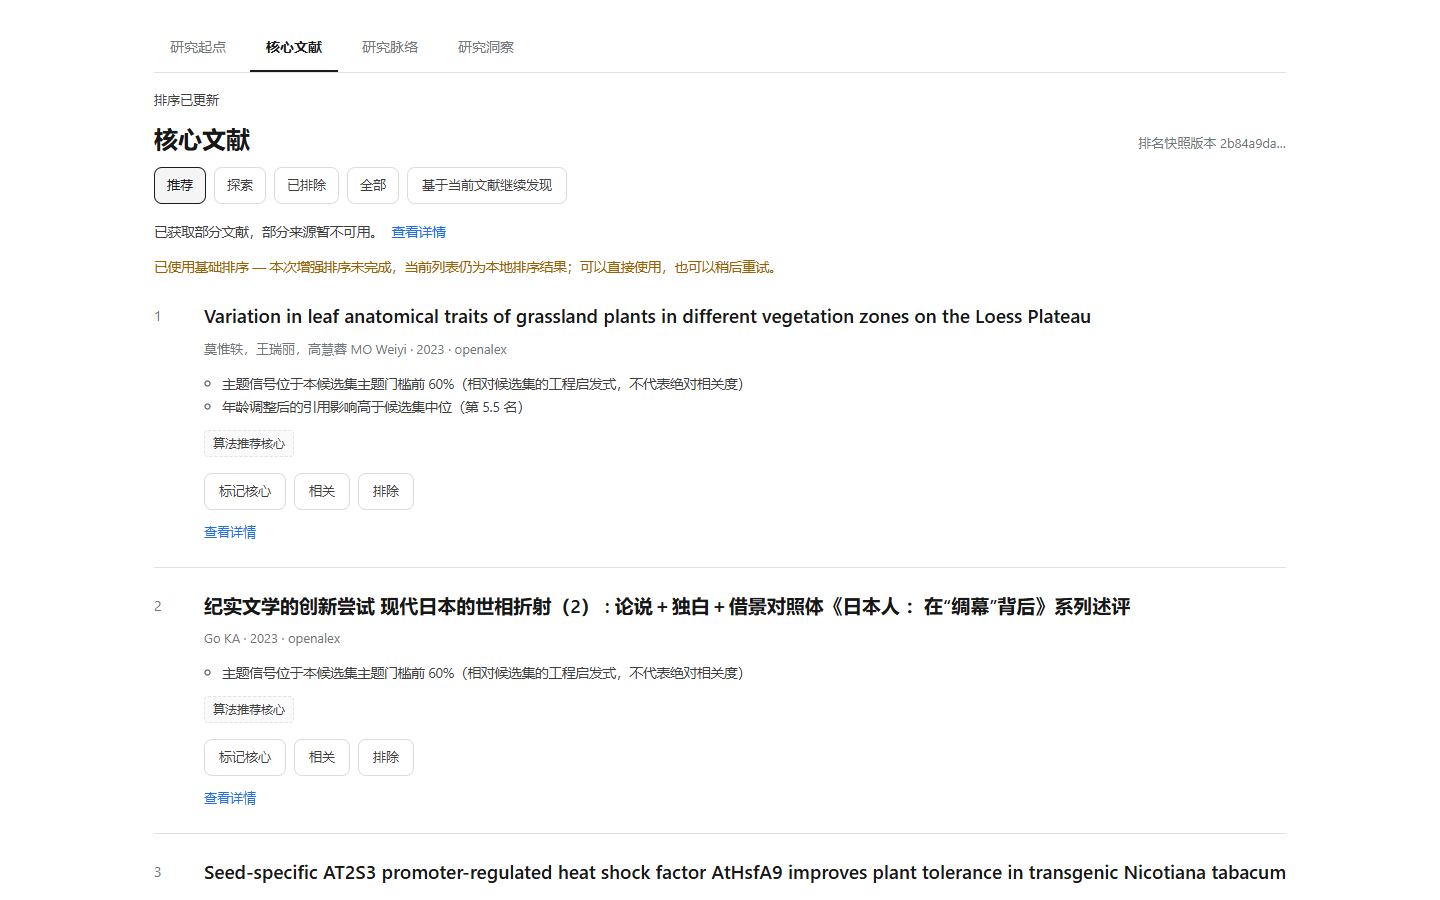
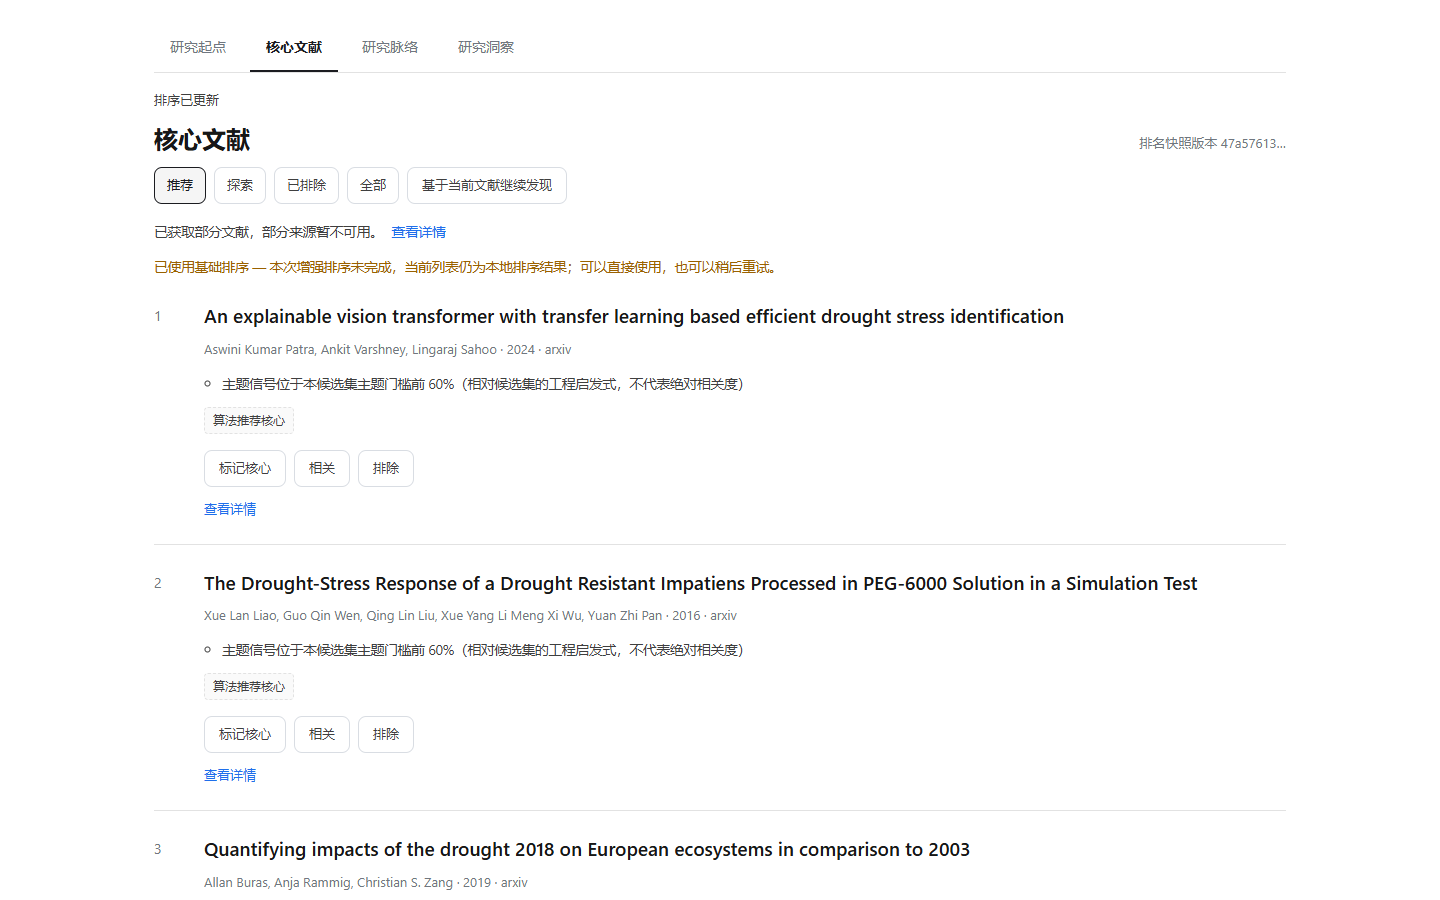
fix(v3.2): translate a Chinese research direction before searching OR ranking it
The user reported that the workspace "has no actual functionality": the flow ran,
a job completed, and the list came back full of unrelated records. It was two
real defects, not one.

1. The pipeline sent the raw Chinese phrase to OpenAlex/Crossref/arXiv, which
   answer that with unrelated English records. litsearch/v32/pipeline.py even said
   so in a docstring: "nothing is translated and nothing is invented".
2. Worse, rank_project scored the topic signal with the anchor's CHINESE text
   against those ENGLISH titles. The topic share was ~0 for every paper, so the
   strongest signal was switched off entirely (a signal with fewer than two
   distinct values is disabled by contract) and the list was effectively
   unordered.

Both halves now share one translation:
- retrieval_text() reuses the existing pinned translator through
  litsearch.query_context.prepare_query and records the engine and model revision.
  The original stays untouched in the anchor; a translation that still contains
  CJK, or an unavailable translator, degrades to the original and says so instead
  of pretending.
- run_discover persists the derived query_translation on the project (a derived
  cache, so context_version is NOT bumped) and records query_variants with
  source="translation" and the model revision, which doc 08 requires.
- ranking_query_text() is used by rank_project, so a rerun triggered by a
  judgement also scores against the English query instead of falling back to
  Chinese.
[…]

diff --git a/litsearch/v32/pipeline.py b/litsearch/v32/pipeline.py
@@ -236,34 +236,83 @@ def as_of_year() -> int:
     return int(utc_now().year)
 
 
-def query_variants(text: str, *, limit: int | None = None) -> list[dict[str, Any]]:
+def query_variants(
+    text: str,
+    *,
+    limit: int | None = None,
+    source: str = "original",
+    generator_version: str | None = None,
+) -> list[dict[str, Any]]:
     """The query strings this run will actually send, as ``QueryVariant`` rows.
 
-    Only rule-generated variants are produced (the original text plus a
-    keyword-only form); nothing is translated and nothing is invented, so the
-    recorded list is a truthful account of the search.
+    Only rule-generated variants are produced (the submitted text plus a
+    keyword-only form); nothing is invented, so the recorded list is a truthful
+    account of the search.  When a research direction had to be translated, the
+    caller passes ``source="translation"`` and the translation model's revision,
+    because doc 08 requires ``query_variants`` to record the generation rule and
+    the model version.
     """
     budget = int(contracts.discovery()["query_variants"] if limit is None else limit)
     original = str(text or "").strip()
     variants: list[dict[str, Any]] = []
 
-    def _row(value: str, source: str) -> dict[str, Any]:
+    def _row(value: str, origin: str) -> dict[str, Any]:
         return {
             "text": value,
             "language": "zh" if _CJK_RE.search(value) else "en",
-            "source": source,
-            "generator_version": contracts.document_version(),
+            "source": origin,
+            "generator_version": generator_version or contracts.document_version(),
             "confirmed_terms": [],
         }
 
     if original:
-        variants.append(_row(original, "original"))
+        variants.append(_row(original, source))
     tokens = _tokens(original)
     if len(tokens) > 3:
         keyword_form = " ".join(dict.fromkeys(tokens))
         if keyword_form != original:
             variants.append(_row(keyword_form, "rule"))
     return variants[: max(1, budget)]
+
+
+def retrieval_text(original: str) -> dict[str, Any]:
+    """The text actually sent to the sources, plus how it was produced.
+
+    A Chinese research direction cannot be sent to OpenAlex/Crossref/arXiv as-is:
+    they answer with unrelated English records, and the lexical topic signal then
+    scores ~0 for everything, so the list becomes effectively unordered.  The
+    legacy pinned translator is reused here (``litsearch.query_context``); the
+    ORIGINAL stays untouched in the anchor and the translation is recorded with
+    its engine and model revision.  Translation is best effort: when it is
+    unavailable the original text is used and the engine says so, rather than the
+    run silently pretending to have translated.
+    """
+    text = str(original or "").strip()
+    info: dict[str, Any] = {
+        "original": text,
+        "text": text,
+        "engine": "identity",
+        "revision": "",
+        "translated": False,
+    }
+    if not text or not _CJK_RE.search(text):
+        return info
+    try:
+        from litsearch.query_context import prepare_query
+
+        context = prepare_query("", text)
+        translated = str(context.get("translated") or "").strip()
+        if translated and not _CJK_RE.search(translated):
+            info.update(
+                text=translated,
+                engine=str(context.get("engine") or "translation"),
+                revision=str(context.get("revision") or ""),
+                translated=True,
+            )
+    except Exception as exc:  # noqa: BLE001 - translation is best effort, never fatal
+        info["engine"] = "unavailable"
+        info["error"] = type(exc).__name__
+    return info
 
 
 def _tokens(text: Any) -> list[str]:
@@ -294,6 +343,22 @@ def topic_scores(query: str, records: Iterable[Mapping[str, Any]]) -> dict[str, 
         overlap = wanted & set(haystack)
         scores[paper_id] = round_tie(len(overlap) / len(wanted)) or 0.0
     return scores
+
+
+def ranking_query_text(project: V32Project) -> str:
+    """The text the topic signal scores against: the translated query when there is one.
+
+    Scoring an English corpus against a Chinese phrase gives every paper a topic
+    share of roughly zero, which disables the strongest signal (a signal with
+    fewer than two distinct values is switched off entirely) and leaves the list
+    effectively unordered. The translation recorded at discovery time is reused
+    here so retrieval and ranking see the same query.
+    """
+    translation = project.doc.get("query_translation") or {}
+    translated = str(translation.get("translated") or "").strip()
+    if translated:
+        return translated
+    return str((project.doc.get("anchor") or {}).get("original_text") or "").strip()
 
 
 def citation_edges(store: V32Store, project: V32Project) -> list[dict[str, Any]]:
@@ -362,7 +427,7 @@ def rank_project(
     records.sort(key=lambda row: str(row.get("paper_id")))
     paper_ids = [str(row["paper_id"]) for row in records]
 
-    scores = topic_scores(documents["anchor"].get("original_text") or "", records)
+    scores = topic_scores(ranking_query_text(project), records)
     graph = pagerank_signal(citation_edges(state.store, project), paper_ids, config=cfg)
 
     seed_scores: dict[str, float] = {}
@@ -809,8 +874,28 @@ def run_discover(state: V32State, project: V32Project, job: Any) -> dict[str, An
     """Retrieve, save candidates, rank locally, commit a snapshot."""
     state.jobs.set_stage(job, str(JobStage.RETRIEVING), progress=0.1)
     anchor = project.doc.get("anchor") or {}
-    text = str(anchor.get("original_text") or "").strip()
-    variants = query_variants(text)
+    original_text = str(anchor.get("original_text") or "").strip()
+    # 中文研究方向必须先译成英文再检索：直接把中文发给 OpenAlex/Crossref 只会
+    # 拿回无关的英文记录，随后词法主题信号又近乎全 0，列表等于无序。原文保留在
+    # anchor 里不被覆盖，译文与所用模型版本一并记录。
+    translation = retrieval_text(original_text)
+    text = translation["text"]
+    variants = query_variants(
+        text,
+        source="translation" if translation["translated"] else "original",
+        generator_version=translation["revision"] or None,
+    )
+    if translation["translated"]:
+        # 派生检索文本，不属于用户意图，因此不改变 context_version；
+        # 后续由判断触发的重排也要用它，否则重排会再次退回中文打分。
+        project.doc["query_translation"] = {
+            "original": translation["original"],
+            "translated": translation["text"],
+            "engine": translation["engine"],
+            "revision": translation["revision"],
+            "recorded_at": now(),
+        }
+        state.store.save(project)
     outcome = retrieve_candidates(state, project, job, text=text, variants=variants)
 
     saved = _upsert_candidates(state, project, outcome.papers)
@@ -852,6 +937,8 @@ def run_discover(state: V32State, project: V32Project, job: Any) -> dict[str, An
         "recommended_paper_ids": list(ranking.recommended_paper_ids),
         "starter_paper_ids": list(ranking.starter_paper_ids),
         "query_variants": [variant["text"] for variant in variants],
+        "query_translation": project.doc.get("query_translation"),
+        "ranking_query": ranking_query_text(project),
         "ranking_stage": snapshot["ranking_stage"],
         "error_codes": [] if coverage["status"] == str(CoverageStatus.WITHIN_BUDGET) else ["source_failure"],
     }

diff --git a/tests/test_v32_translation.py b/tests/test_v32_translation.py
@@ -1,0 +1,136 @@
+"""A Chinese research direction must be translated before it is searched or ranked.
+
+Before this, the v3.2 pipeline sent the raw Chinese phrase to OpenAlex/Crossref and
+then scored the returned English records against that Chinese phrase.  The lexical
+topic share was therefore ~0 for every paper, which switches the strongest signal
+off entirely, so the list came back in an arbitrary order — the retrieval
+"worked" while the product was useless.  Both halves are pinned here.
+"""
+
+from __future__ import annotations
+
+import pytest
+
+from litsearch.v32 import pipeline
+from litsearch.v32 import contracts
+
+
+@pytest.fixture()
+def english_translator(monkeypatch):
+    """Stand in for the pinned Marian model so the test needs no model on disk."""
+    calls: list[str] = []
+
+    def fake_prepare(topic, direction, manual="", translator=None):
+        calls.append(direction)
+        return {
+            "original": direction,
+            "translated": "mint drought stress transcriptome secondary metabolism",
+            "engine": "Xenova/opus-mt-zh-en",
+            "revision": "test-revision",
+            "topic": topic,
+            "direction": direction,
+        }
+
+    monkeypatch.setattr("litsearch.query_context.prepare_query", fake_prepare)
+    return calls
+
+
+def test_a_cjk_direction_is_translated_for_retrieval(english_translator):
+    info = pipeline.retrieval_text("薄荷干旱胁迫的转录组响应")
+    assert info["translated"] is True
+    assert info["original"] == "薄荷干旱胁迫的转录组响应"
+    assert info["text"] == "mint drought stress transcriptome secondary metabolism"
+    assert info["engine"] == "Xenova/opus-mt-zh-en"
+    assert info["revision"] == "test-revision"
+    assert english_translator == ["薄荷干旱胁迫的转录组响应"]
+    # 原文必须保留，不被译文覆盖。
+    assert "薄荷" in info["original"]
+
+
+def test_an_english_direction_is_not_sent_through_the_translator(english_translator):
+    info = pipeline.retrieval_text("mint drought stress")
+    assert info["translated"] is False
+    assert info["text"] == "mint drought stress"
+    assert info["engine"] == "identity"
+    assert english_translator == [], "an English direction must not be translated again"
+
+
+def test_an_empty_direction_is_left_alone(english_translator):
+    info = pipeline.retrieval_text("   ")
+    assert info["text"] == ""
+    assert info["translated"] is False
+    assert english_translator == []
+
+
+def test_an_unavailable_translator_degrades_honestly(monkeypatch):
+    def explode(*_args, **_kwargs):
+        raise RuntimeError("model missing")
+
+    monkeypatch.setattr("litsearch.query_context.prepare_query", explode)
+    info = pipeline.retrieval_text("薄荷干旱胁迫")
+    assert info["translated"] is False
+    assert info["text"] == "薄荷干旱胁迫", "the original is used when translation fails"
+    assert info["engine"] == "unavailable", "the run must not claim it translated"
+    assert info["error"] == "RuntimeError"
+
+
+def test_a_translation_that_keeps_cjk_is_rejected(monkeypatch):
+    monkeypatch.setattr(
+        "litsearch.query_context.prepare_query",
+        lambda *a, **k: {"translated": "薄荷 drought", "engine": "x", "revision": "r"},
+    )
+    info = pipeline.retrieval_text("薄荷干旱胁迫")
+    assert info["translated"] is False, "half-translated text is not sent to the sources"
+    assert info["text"] == "薄荷干旱胁迫"
+
+
+def test_translated_variants_record_the_model_version(english_translator):
+    info = pipeline.retrieval_text("薄荷干旱胁迫")
+    variants = pipeline.query_variants(
+        info["text"], source="translation", generator_version=info["revision"]
+    )
+    assert variants, "at least one query variant must be recorded"
+    first = variants[0]
+    assert first["source"] == "translation"
+    assert first["generator_version"] == "test-revision"
+    assert first["language"] == "en"
+    # doc 08: query_variants record the rule and the model version.
+    assert set(first) == {"text", "language", "source", "generator_version", "confirmed_terms"}
+
+
+def test_ranking_prefers_the_translated_query_over_the_chinese_one():
+    """The half that actually broke the ordering."""
+
+    class Project:
+        doc = {
+            "anchor": {"original_text": "薄荷干旱胁迫"},
+            "query_translation": {"translated": "mint drought stress", "engine": "e", "revision": "r"},
+        }
+
+    assert pipeline.ranking_query_text(Project()) == "mint drought stress"
+
+    class Untranslated:
+        doc = {"anchor": {"original_text": "薄荷干旱胁迫"}}
+
+    assert pipeline.ranking_query_text(Untranslated()) == "薄荷干旱胁迫"
+
+
+def test_scoring_english_records_with_the_chinese_phrase_is_why_it_was_empty():
+    """Documents the defect the translation removes, so a regression is obvious."""
+    records = [
+        {"paper_id": "a" * 32, "title": "Drought stress responses in mint", "abstract": "transcriptome"},
+        {"paper_id": "b" * 32, "title": "Japanese literary criticism", "abstract": "essay"},
+    ]
+    chinese = pipeline.topic_scores("薄荷干旱胁迫", records)
+    english = pipeline.topic_scores("mint drought stress transcriptome", records)
+    # Chinese against English text: essentially no shared tokens -> the signal is
+    # flat, and a flat signal is switched off.
+    assert len(set(chinese.values())) <= 1
+    assert english["a" * 32] > english["b" * 32]
+    assert english["a" * 32] > 0
+
+
+def test_the_contract_still_budgets_three_query_variants():
+    assert contracts.discovery()["query_variants"] == 3
+    variants = pipeline.query_variants("mint drought stress transcriptome response metabolism")
+    assert 1 <= len(variants) <= 3
